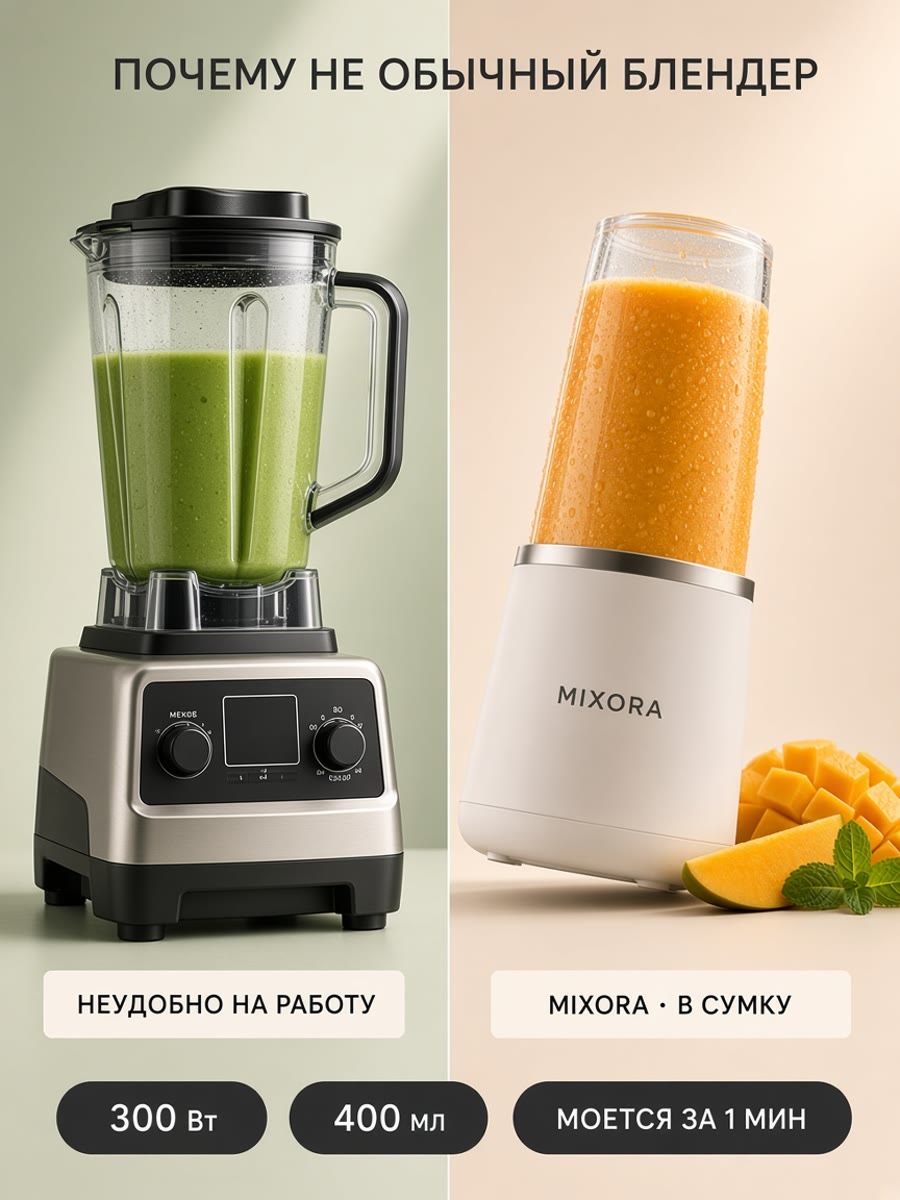
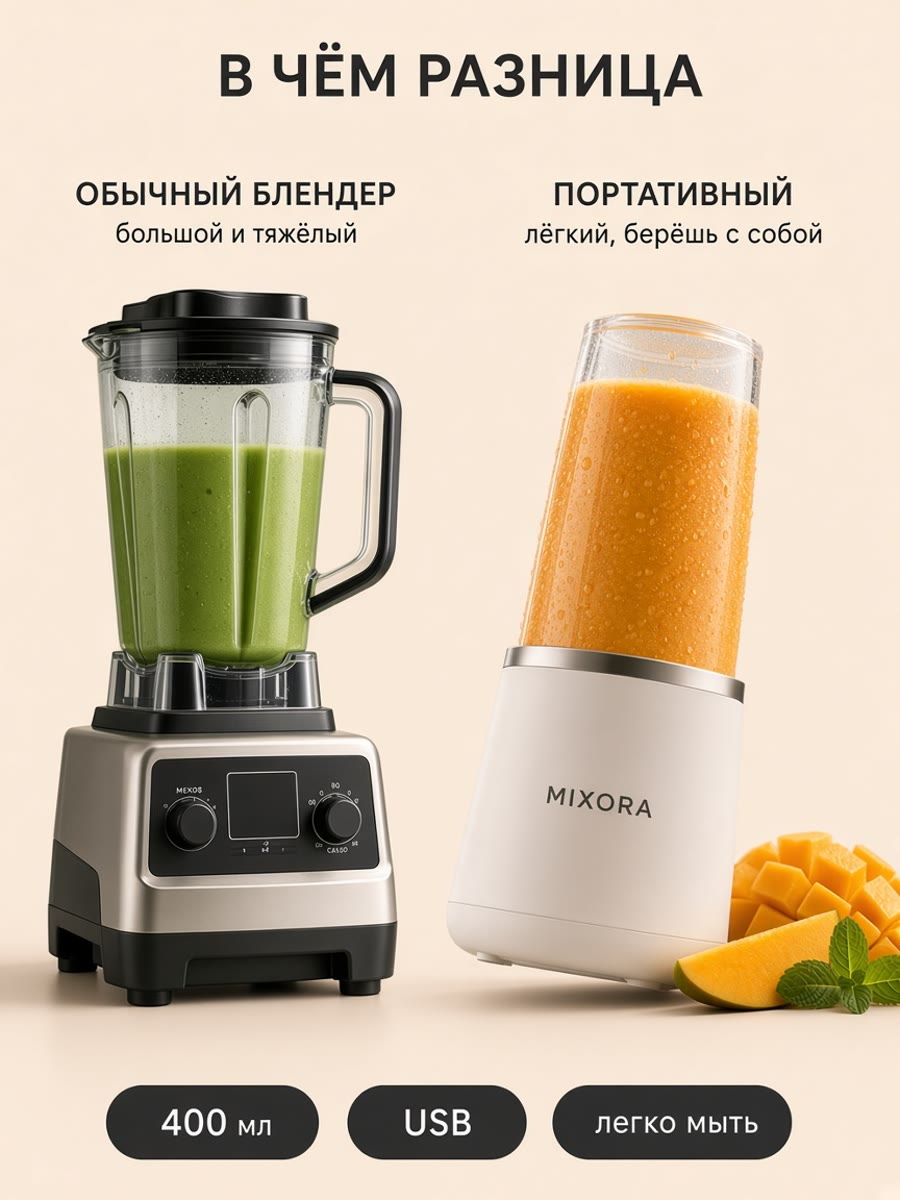
Align MIXORA slides in one grid; clarify comparison slide labels.

diff --git a/public/marketplace/index.html b/public/marketplace/index.html
@@ -8,9 +8,9 @@
   <link rel="preconnect" href="https://fonts.googleapis.com">
   <link rel="preconnect" href="https://fonts.gstatic.com" crossorigin>
   <link href="https://fonts.googleapis.com/css2?family=DM+Sans:ital,opsz,wght@0,9..40,400;0,9..40,500;0,9..40,600&family=IBM+Plex+Mono:wght@400;500&family=Syne:wght@600;700;800&display=swap" rel="stylesheet">
-  <link rel="stylesheet" href="../css/styles.css?v=20261019c">
-  <link rel="stylesheet" href="../css/neon.css?v=20261019c">
-  <link rel="stylesheet" href="../css/marketplace.css?v=20261019c">
+  <link rel="stylesheet" href="../css/styles.css?v=20261019d">
+  <link rel="stylesheet" href="../css/neon.css?v=20261019d">
+  <link rel="stylesheet" href="../css/marketplace.css?v=20261019d">
 </head>
 <body class="page-marketplace">
 
@@ -215,40 +215,19 @@
         </div>
       </article>
 
-      <article class="mp-case mp-case--gadget reveal" id="case-blender">
+      <article class="mp-case reveal" id="case-blender">
         <div class="mp-case__head">
           <div class="mp-case__tags">Кейс 5 · кухня · 6 слайдов</div>
           <h3 class="mp-case__title">MIXORA — портативный блендер</h3>
           <p class="mp-case__text">Обложка, сцена «в деле», комплектация, выгоды, уход и сравнение с обычным блендером.</p>
         </div>
-
-        <div class="mp-gadget-layout mp-gadget-layout--5">
-          <figure class="mp-slide mp-gadget-layout__hero">
-            <img src="../images/marketplace/case5/01_cover.jpg" alt="Обложка блендера" loading="lazy" width="450" height="600">
-            <figcaption>01 · обложка</figcaption>
-          </figure>
-          <figure class="mp-slide">
-            <img src="../images/marketplace/case5/02_lifestyle.jpg" alt="Lifestyle: наливает смузи" loading="lazy" width="450" height="600">
-            <figcaption>02 · в деле</figcaption>
-          </figure>
-          <figure class="mp-slide">
-            <img src="../images/marketplace/case5/03_kit.jpg" alt="Комплектация" loading="lazy" width="450" height="600">
-            <figcaption>03 · комплектация</figcaption>
-          </figure>
-          <figure class="mp-slide">
-            <img src="../images/marketplace/case5/04_benefits.jpg" alt="Выгоды" loading="lazy" width="450" height="600">
-            <figcaption>04 · выгоды</figcaption>
-          </figure>
-          <figure class="mp-slide">
-            <img src="../images/marketplace/case5/05_care.jpg" alt="Уход за блендером" loading="lazy" width="450" height="600">
-            <figcaption>05 · уход</figcaption>
-          </figure>
-        </div>
-        <div class="mp-gadget-proof">
-          <figure class="mp-slide">
-            <img src="../images/marketplace/case5/06_compare.jpg" alt="Сравнение с обычным блендером" loading="lazy" width="450" height="600">
-            <figcaption>06 · сравнение</figcaption>
-          </figure>
+        <div class="mp-slides">
+          <figure class="mp-slide"><img src="../images/marketplace/case5/01_cover.jpg" alt="Обложка блендера" loading="lazy" width="450" height="600"><figcaption>01 · обложка</figcaption></figure>
+          <figure class="mp-slide"><img src="../images/marketplace/case5/02_lifestyle.jpg" alt="Lifestyle: наливает смузи" loading="lazy" width="450" height="600"><figcaption>02 · в деле</figcaption></figure>
+          <figure class="mp-slide"><img src="../images/marketplace/case5/03_kit.jpg" alt="Комплектация" loading="lazy" width="450" height="600"><figcaption>03 · комплектация</figcaption></figure>
+          <figure class="mp-slide"><img src="../images/marketplace/case5/04_benefits.jpg" alt="Выгоды" loading="lazy" width="450" height="600"><figcaption>04 · выгоды</figcaption></figure>
+          <figure class="mp-slide"><img src="../images/marketplace/case5/05_care.jpg" alt="Уход за блендером" loading="lazy" width="450" height="600"><figcaption>05 · уход</figcaption></figure>
+          <figure class="mp-slide"><img src="../images/marketplace/case5/06_compare.jpg" alt="Сравнение: обычный и портативный блендер" loading="lazy" width="450" height="600"><figcaption>06 · сравнение</figcaption></figure>
         </div>
       </article>
     </div>
@@ -414,12 +393,12 @@
     <span id="themeToggleLabel">Неон: вкл</span>
   </button>
 
-  <script src="../js/site-config.js?v=20261019c"></script>
-  <script src="../js/apply-site-config.js?v=20261019c"></script>
-  <script src="../js/marketplace-lightbox.js?v=20261019c"></script>
-  <script src="../js/marketplace-case-expand.js?v=20261019c"></script>
-  <script src="../js/marketplace-breakdown.js?v=20261019c"></script>
-  <script src="../js/marketplace-brief.js?v=20261019c"></script>
-  <script src="../js/main.js?v=20261019c"></script>
+  <script src="../js/site-config.js?v=20261019d"></script>
+  <script src="../js/apply-site-config.js?v=20261019d"></script>
+  <script src="../js/marketplace-lightbox.js?v=20261019d"></script>
+  <script src="../js/marketplace-case-expand.js?v=20261019d"></script>
+  <script src="../js/marketplace-breakdown.js?v=20261019d"></script>
+  <script src="../js/marketplace-brief.js?v=20261019d"></script>
+  <script src="../js/main.js?v=20261019d"></script>
 </body>
 </html>
